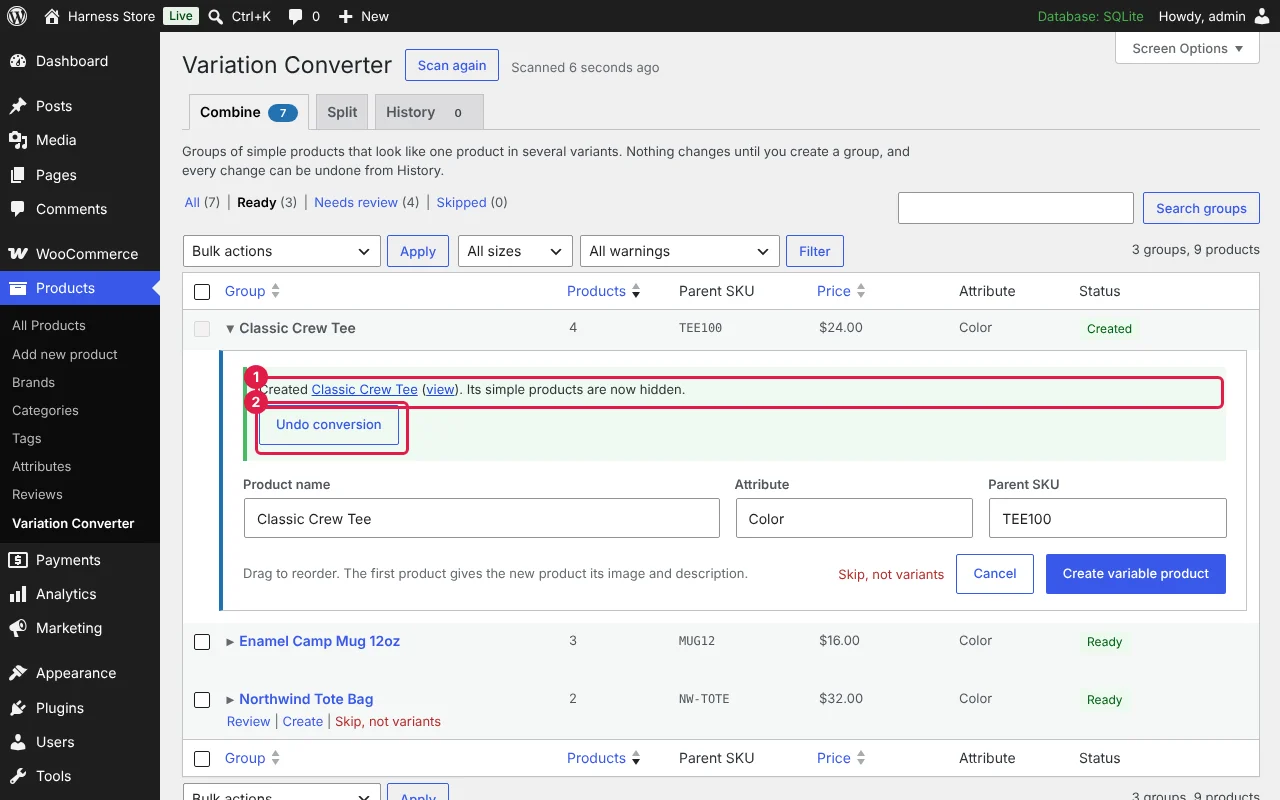
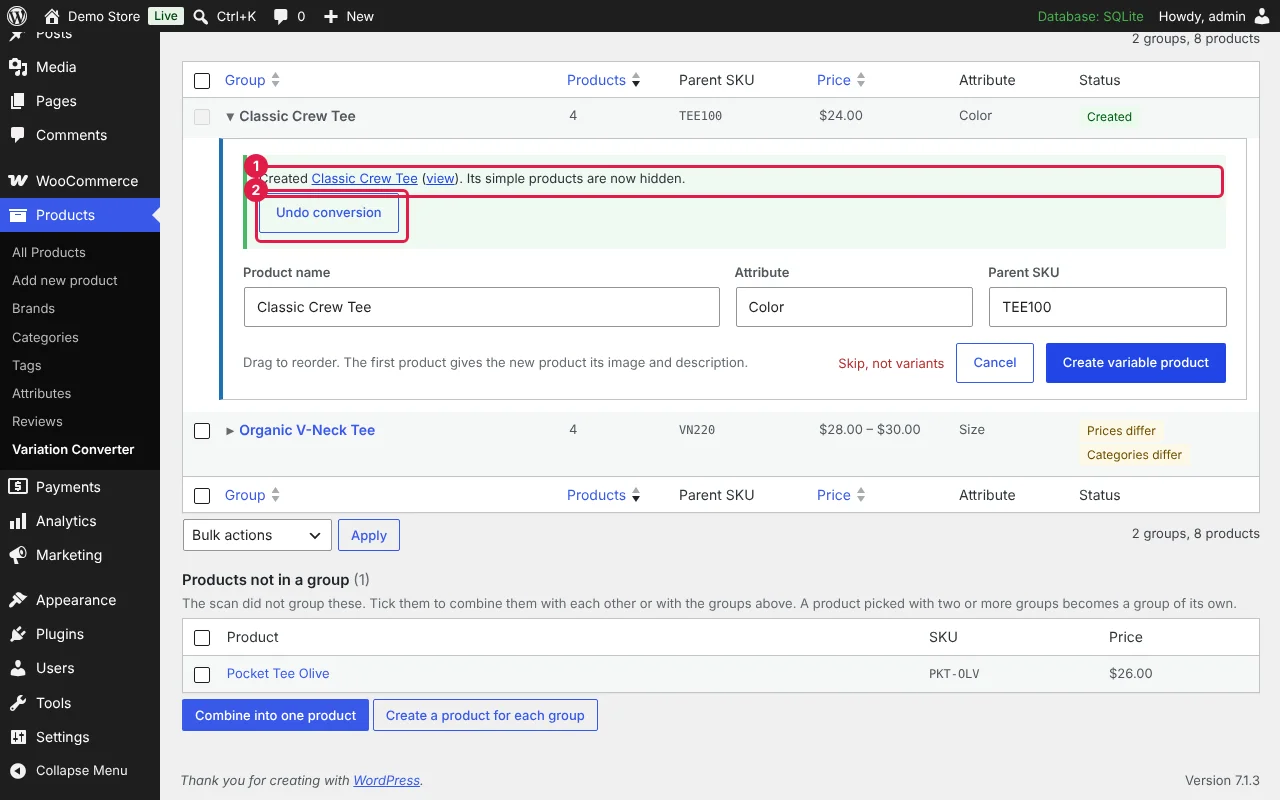
Products topic, step 03: lead with search, tick and Combine into one product (#42)
Matches Variation Converter 0.7.0's search-first Combine tab. Screenshots
recaptured against the plugin demo site (blogname Demo Store).

Claude-Session: https://claude.ai/code/session_01UmMitGtBR1GMWpup46JTgp

diff --git a/content/topics/products/03-combine-into-variable.md b/content/topics/products/03-combine-into-variable.md
@@ -1,39 +1,42 @@
 ---
 title: Combine simple products into a variable product
-summary: Turn a set of separate color or size listings into one product with variations.
-time: 5–10 minutes per group
+summary: Search for a product, tick its separate color or size listings, and turn them into one product with variations.
+time: 5–10 minutes per product
 cost: Free
 checklist:
-  - Open the Combine tab and look through the suggested groups
-  - Click Ready and combine the groups listed there first, if there are any
-  - Open a group and leave out any product that doesn't belong
+  - Search for the product on the Combine tab
+  - Tick its groups and any matching products not in a group
+  - Click Combine into one product
   - Check the product name, attribute and the label for each variation
   - Click Create variable product
   - Open the new product in your shop and check the options menu
 ---
 
-## Review the suggested groups
+## Search for the product
 
-The **Combine** tab lists groups of simple products that look like one product in several variants. A group is suggested when the SKUs share a family (TEE100-BLA, TEE100-NAV) and the names start the same way. The **Status** column shows **Ready**, or what is worth a second look, such as "Prices differ" or "Categories differ". The **Needs review** view lists only those.
+Go to **Products > Variation Converter**. At the top of the **Combine** tab, type the product's name or SKU in **Find the products to combine**, for example "Tee", and click **Search**.
 
-## Start with the Ready groups
+The results come in two parts. **Suggested groups** are products the plugin has already grouped, because their SKUs share a family (TEE100-BLA, TEE100-NAV) and their names start the same way. **Products not in a group** are other products that match your search but that the plugin didn't group.
 
-If this is your first time, click **Ready** above the list. It shows only the groups with no warnings, so their prices, categories and labels already line up. Combine those first, one at a time or all together with **Bulk actions**, then work through **Needs review**. If Ready shows no groups, go straight to Needs review.
+## Tick what belongs together
 
-## Check the group
+Tick the groups and products that are really one product, then click **Combine into one product**. Leave out anything that only looks similar. In the example, Pocket Tee Olive is a different shirt, so it stays unticked.
 
-Click **Review** to open a group. For each product you see the label the plugin read from its name ("Black", "Red") and the attribute it guessed (Color, Size, Flavor, Scent or Volume).
+- One group, or products on their own, become a product with one option, such as Color.
+- Two or more groups, such as a syrup's Vanilla and Caramel groups, become one product with two options, such as Flavor and Size.
 
-- Untick any product that isn't part of this product. When a group mixes SKU families, **Select by SKU** ticks only the products in one family.
+## Check the new product
+
+Before anything changes, you see the new product. For each original product it shows the label the plugin read from its name ("Black", "Navy") and the attribute it guessed (Color, Size, Flavor, Scent or Volume).
+
+- Untick any product that isn't part of this product.
 - Edit the new product name, the attribute and any label that reads wrong.
 - Drag the rows into the order shoppers should see. The first product gives the new product its image and description.
 
 ## Create it
 
-Click **Create variable product**. Each original becomes a variation with its own SKU, prices, stock, weight, dimensions and image. The originals are hidden from your shop and search, not deleted, so their orders, reviews and links stay as they were.
+Click **Create variable product**. Each original becomes a variation with its own SKU, prices, stock, weight, dimensions and image. The originals are hidden from your shop and search, not deleted, so their orders, reviews and links stay as they were. **Back to search results** takes you back to your search for the next product.
 
-If a group isn't really one product, use **Skip, not variants** and later scans leave it out.
+## Working through the whole catalog
 
-## Many groups at once
-
-To combine several groups, tick them in the list and choose **Create variable products** from **Bulk actions**. You can also select products in **Products > All Products** and use the **Combine into variable product** bulk action.
+You don't have to search. With the search box empty, the Combine tab lists every group the plugin suggests. The **Ready** view shows groups with no warnings, so their prices, categories and labels already line up. Tick them and click **Create a product for each group** to create them all at once, then work through **Needs review**. If a group isn't really one product, use **Skip, not variants** and later scans leave it out.
